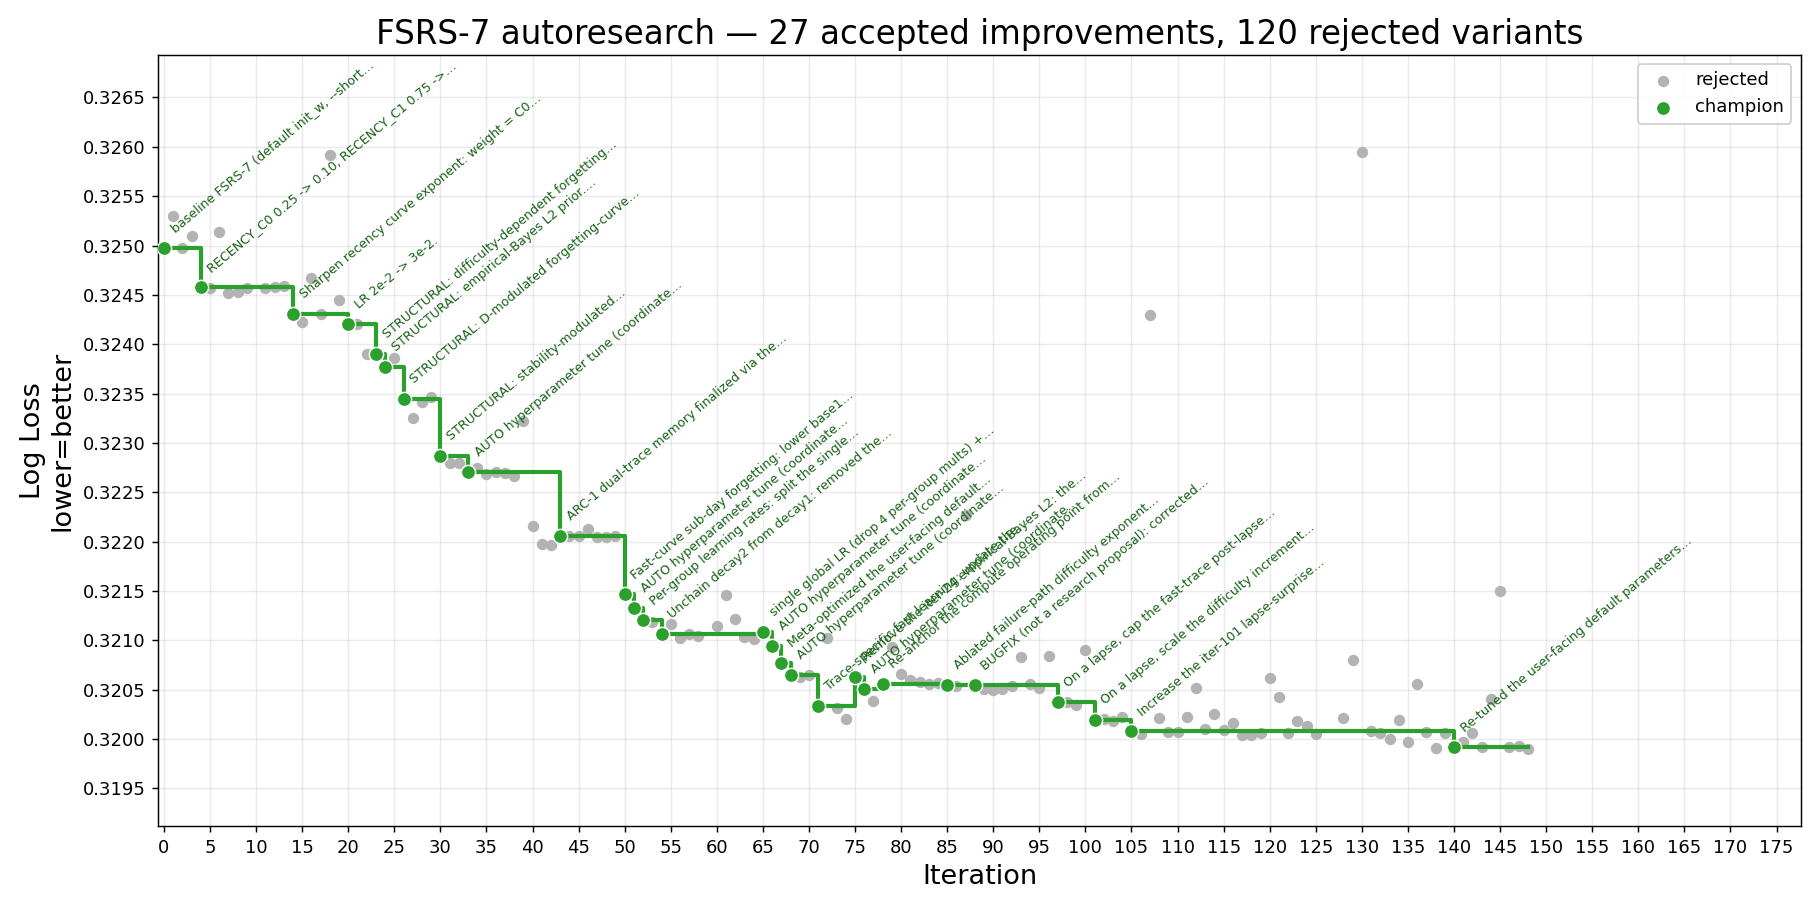
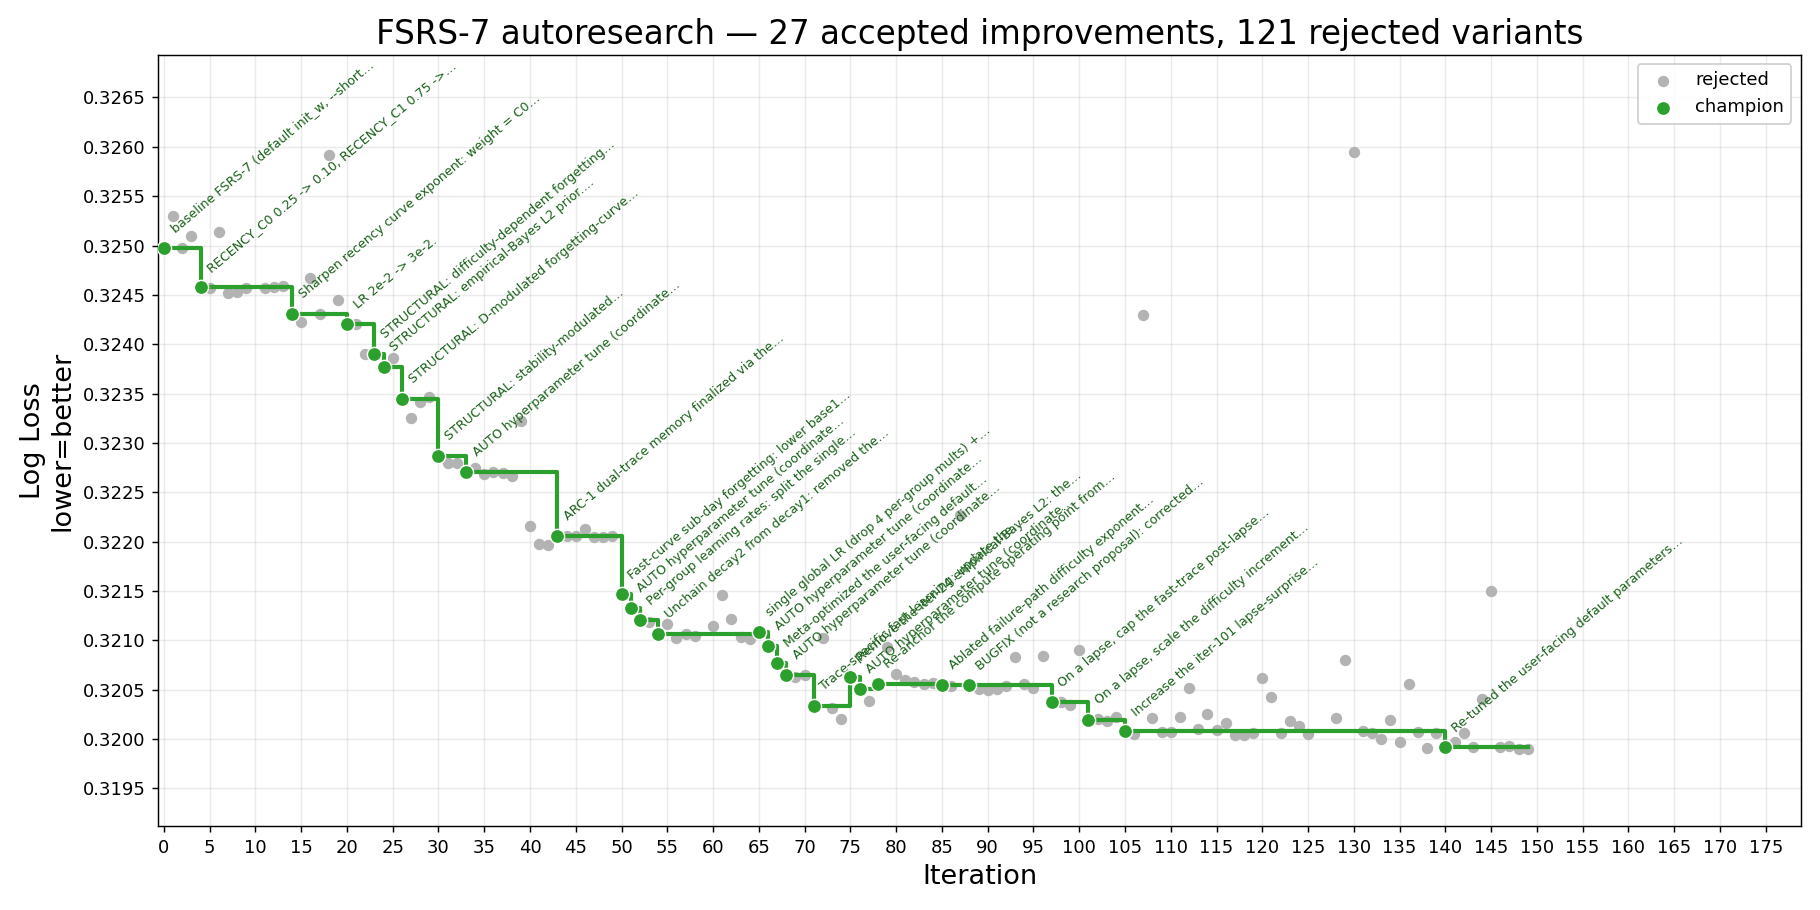
iter 149 rejected: hyperparameter auto-tune (no improvement >= 0.0001)
Automated coordinate-descent pass over LR / Adam betas / L2 strength / recency weighting. Best: BETA1 0.55->0.7, BETA2 0.9913->0.9869, LL_by_user 0.31991 -> 0.31990 (+0.000017 < 0.0001 thresh). Reverted to champion.

diff --git a/result/history.md b/result/history.md
@@ -1,6 +1,6 @@
 # FSRS-7 autoresearch — iteration history
 
-_148 record(s). Generated from `history.jsonl` — do not edit by hand._
+_149 record(s). Generated from `history.jsonl` — do not edit by hand._
 
 | # | Time (UTC) | Thresh. | LL before | LL after | Δ LL | Cx before | Cx after | Δ Cx % | Status | Summary |
 |--:|---|---:|---:|---:|---:|---:|---:|---:|---|---|
@@ -152,3 +152,4 @@ _148 record(s). Generated from `history.jsonl` — do not edit by hand._
 | 146 | 2026-06-06T12:33:09 | 0.0001 | 0.31991 | 0.31992 | -0.00000 | 16,932 | 16,951 | +0.11% | rejected | Add a one-sided high-R quadratic to the lapse-surprise: delta_d *= 1 + (R-0.9) + 10*max(0, R-0.9)^2. |
 | 147 | 2026-06-06T12:42:31 | 0.0001 | 0.31991 | 0.31993 | -0.00002 | 16,932 | 16,998 | +0.39% | rejected | Give Good (rating 3) an R-dependent D-decrease: delta_d += -next_d_mult*0.5*max(0, 0.9-retention). |
 | 148 | 2026-06-06T12:47:34 | 0.0001 | 0.31991 | 0.31990 | +0.00002 | 16,932 | 16,937 | +0.03% | rejected | Raise the lapse-surprise coefficient past its positivity cap: delta_d *= max(0.1, 1 + 1.5*(retention-0.9)) (was 1 + 1.0*(retention-0.9)). |
+| 149 | 2026-06-06T13:21:41 | 0.0001 | 0.31991 | 0.31990 | +0.00002 | 16,932 | 16,932 | +0.00% | rejected | AUTO hyperparameter tune (coordinate descent over training hyperparameters (LR/betas/L2/recency C0+EXP)): best candidate BETA1 0.55->0.7, BETA2 0.9913->0.9869. |
